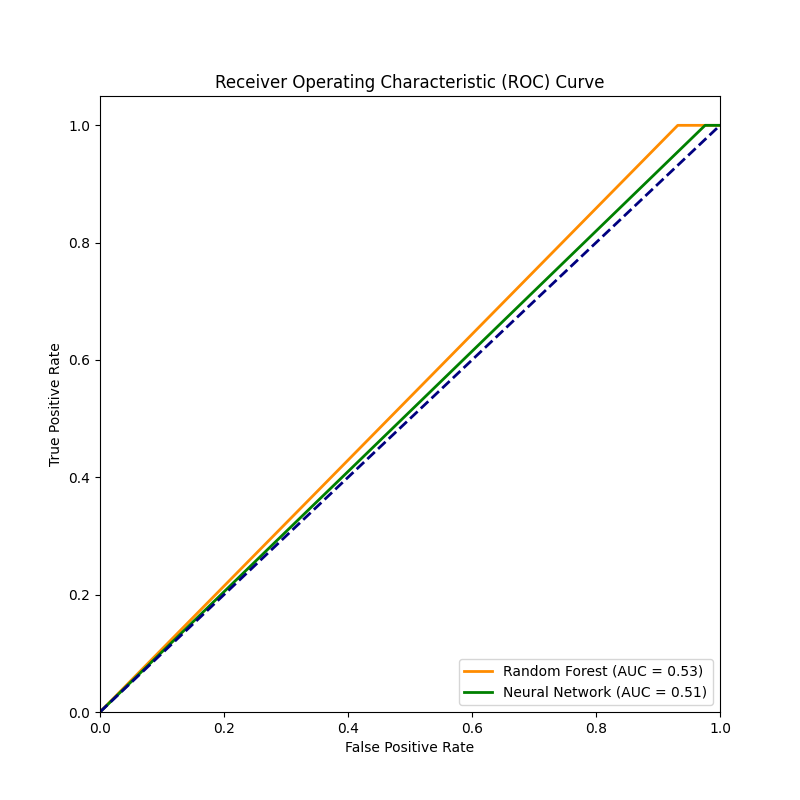
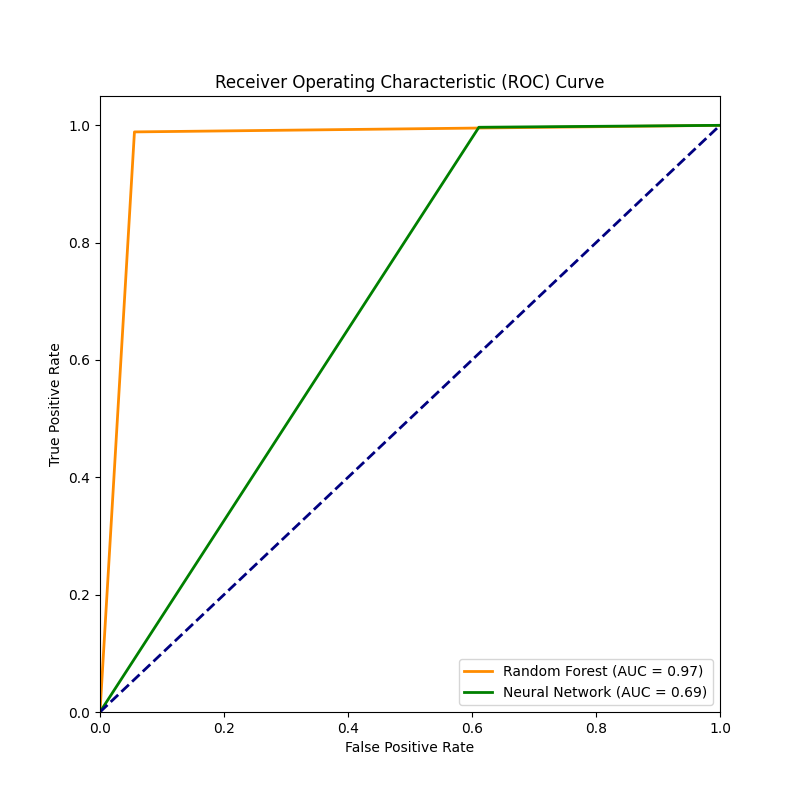
Adding performance metrics for sklearn algorithms and csv

diff --git a/Proiect/graphics.py b/Proiect/graphics.py
@@ -83,22 +83,20 @@ if __name__ == "__main__":
     predicted_dataset_nn = pd.read_csv("predictions_NeuralNetwork_sklearn.csv")
     predicted_values_nn = predicted_dataset_nn['Predicted Values']
     true_values = predicted_dataset_rf['Quality of patient care star rating']
+    true_values = true_values.apply(custom_round)
     predicted_values_rf = predicted_dataset_rf['Predicted Values']
     mse_rf = mean_squared_error(true_values, predicted_values_rf)
     mse_nn = mean_squared_error(true_values, predicted_values_nn)
 
     generate_ROC(true_values.apply(transform_categorical), predicted_values_rf.apply(transform_categorical), predicted_values_nn.apply(transform_categorical))
-    true_values = true_values.apply(custom_round)
-    predicted_values_rf = predicted_values_rf.apply(custom_round)
-    predicted_values_nn = predicted_values_nn.apply(custom_round)
     cm = confusion_matrix(true_values, predicted_values_rf)
     ConfusionMatrixDisplay(confusion_matrix=cm).plot()
-    plt.savefig('confusion_matrix_RandomForest50_100.png')
+    plt.savefig('confusion_matrix_RandomForest_sklearn.png')
 
     plt.clf()
     cmnn = confusion_matrix(true_values, predicted_values_nn)
     ConfusionMatrixDisplay(confusion_matrix=cmnn).plot()
-    plt.savefig('confusion_matrix_Neural.png')
+    plt.savefig('confusion_matrix_NeuralNetwork_sklearn.png')
 
     # accuracy_sklearn = accuracy_score(true_values, predicted_values)
     # report = classification_report(true_values, predicted_values)
@@ -106,13 +104,13 @@ if __name__ == "__main__":
     recall = recall_score(true_values, predicted_values_rf, average='weighted')
     precision = precision_score(true_values, predicted_values_rf, average='weighted')
     f1 = f1_score(true_values, predicted_values_rf, average='weighted')
-    write_metrics_to_csv("PerformanceMetrics_RandomForest_50_100.csv", ["Accuracy", "Precision", "Recall", "F1 Score", "Mean Squared Error"],
+    write_metrics_to_csv("PerformanceMetrics_RandomForest_sklearn.csv", ["Accuracy", "Precision", "Recall", "F1 Score", "Mean Squared Error"],
                          [accuracy, precision, recall, f1, mse_rf])
 
     accuracy_nn = calculate_accuracy(true_values, predicted_values_nn)
     recall_nn = recall_score(true_values, predicted_values_nn, average='weighted')
     precision_nn = precision_score(true_values, predicted_values_nn, average='weighted')
     f1_nn = f1_score(true_values, predicted_values_nn, average='weighted')
-    write_metrics_to_csv("PerformanceMetrics_NeuralNetwork.csv",
+    write_metrics_to_csv("PerformanceMetrics_NeuralNetwork_sklearn.csv",
                          ["Accuracy", "Precision", "Recall", "F1 Score", "Mean Squared Error"],
                          [accuracy_nn, precision_nn, recall_nn, f1_nn, mse_nn])

diff --git a/Tema2/graphics.py b/Tema2/graphics.py
@@ -98,7 +98,7 @@ if __name__ == "__main__":
     plt.clf()
     cmnn = confusion_matrix(true_values, predicted_values_nn)
     ConfusionMatrixDisplay(confusion_matrix=cmnn).plot()
-    plt.savefig('confusion_matrix_Neural.png')
+    plt.savefig('confusion_matrix_NeuralNetwork.png')
 
     # accuracy_sklearn = accuracy_score(true_values, predicted_values)
     # report = classification_report(true_values, predicted_values)
